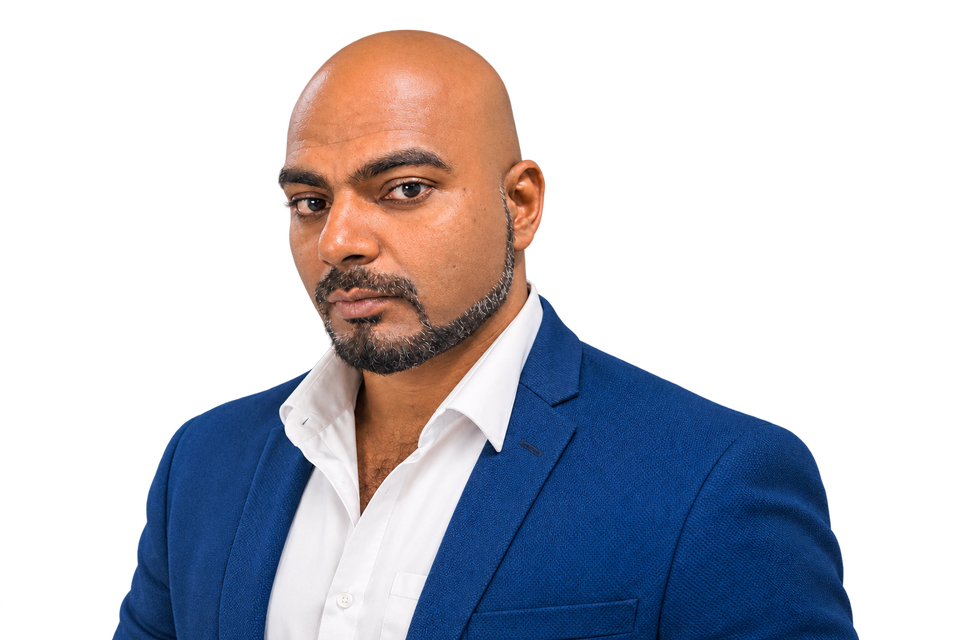
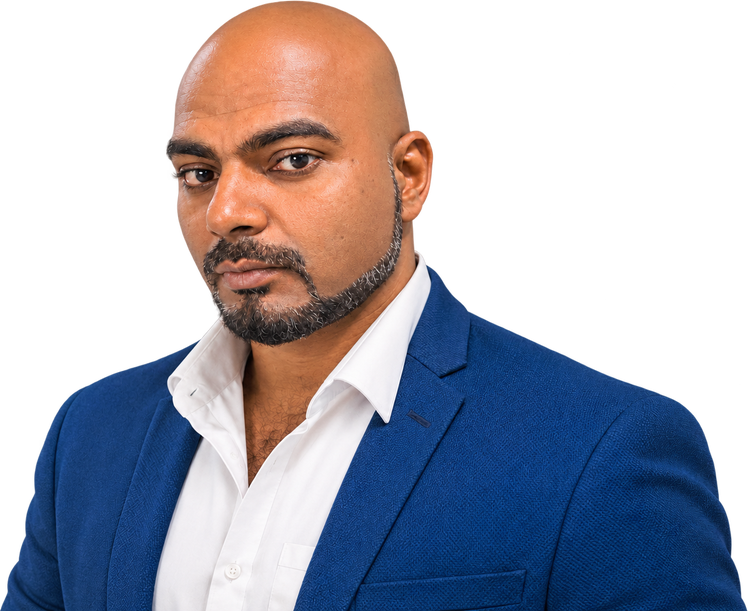
Refine portfolio project motion and timeline

diff --git a/app/globals.css b/app/globals.css
@@ -4967,7 +4967,7 @@ html[data-theme="dark"] .project-row:focus-within { box-shadow: 0 25px 48px rgba
 
 @property --card-glow-hue {
   syntax: "<number>";
-  inherits: false;
+  inherits: true;
   initial-value: 218;
 }
 .hero-role { color: #315b96; }
@@ -5132,13 +5132,203 @@ html[data-theme="dark"] .hero-hairline .hero-portrait-backdrop {
   .project-hanging-rail { width: var(--mobile-rail-width, 400vw); }
 }
 .hero-media .hero-photo {
-  top: 0;
-  right: 0;
-  bottom: 0;
-  left: 0;
-  width: 100%;
-  height: 100%;
-  object-fit: cover;
-  object-position: center top;
+  top: auto !important;
+  right: auto !important;
+  bottom: 15% !important;
+  left: 0 !important;
+  width: 100% !important;
+  height: auto !important;
+  max-height: 96%;
+  object-fit: contain;
+  object-position: center bottom;
+  transform: translateY(-20%) !important;
+}
+
+/* Smoother rope mechanics: a true full-width sag, fixed hangers, compact cards. */
+.hero-media,
+html[data-theme="dark"] .hero-media {
+  overflow: visible;
+  border: 0;
+  border-radius: 0;
+  background: transparent;
+  box-shadow: none;
+}
+.hero-media .hero-photo {
+  z-index: 2;
+  filter: drop-shadow(0 17px 22px rgba(22, 45, 80, .16));
+}
+.hero-media .hero-portrait-backdrop { display: block !important; }
+.hero-hairline::before,
+.hero-hairline::after { display: block !important; }
+html[data-theme="dark"] .hero-media .hero-photo {
+  filter: drop-shadow(0 20px 25px rgba(0, 0, 0, .24));
+}
+
+.project-list {
+  grid-auto-flow: row;
+  grid-auto-columns: auto;
+  grid-template-columns: repeat(4, minmax(0, 1fr));
+  align-items: start;
+  gap: clamp(12px, 1.4vw, 20px);
+  margin-top: 38px;
+  padding: 0 0 16px;
+  overflow: visible;
+  scrollbar-width: none;
+  perspective: 1400px;
+}
+.project-list::-webkit-scrollbar { display: none; }
+.project-hanging-rail {
+  width: 100% !important;
+  height: 96px;
+}
+.project-row,
+.project-row:last-child,
+.project-featured {
+  z-index: 1;
+  display: block;
+  min-width: 0;
+  min-height: 0;
+  margin-top: calc(47px + var(--rope-drop, 0px));
+  padding: 0;
+  overflow: visible;
+  border: 0 !important;
+  border-radius: 22px;
+  background: transparent !important;
+  box-shadow: none !important;
+  transform: none !important;
+  transform-style: flat;
+  transition: none;
+  animation: none !important;
+  perspective: 1100px;
+}
+.project-row:nth-of-type(2),
+.project-row:nth-of-type(3) { margin-top: calc(47px + var(--rope-drop, 0px)); }
+.project-row::before {
+  top: -47px;
+  left: 50%;
+  height: 47px;
+  background: linear-gradient(rgba(54, 87, 137, .24), rgba(54, 87, 137, .72));
+  transform: translateX(-50%);
+}
+.project-row::after {
+  top: -53px;
+  left: 50%;
+  transform: translateX(-50%);
+}
+.project-card-shell {
+  position: relative;
+  display: flex;
+  min-width: 0;
+  min-height: 456px;
+  flex-direction: column;
+  padding: 11px;
+  overflow: hidden;
+  border: 1px solid rgba(255,255,255,.94);
+  border-radius: 20px;
+  background:
+    radial-gradient(ellipse at var(--card-glow-x, 50%) var(--card-glow-y, 45%), hsl(var(--card-glow-hue, 218) 88% 74% / .15), transparent 63%),
+    rgba(255,255,255,.92);
+  box-shadow: 0 14px 32px rgba(33,60,103,.11), inset 0 1px rgba(255,255,255,.98);
+  transform: perspective(1100px) rotateX(var(--card-rotate-x)) rotateY(var(--card-rotate-y));
+  transform-origin: 50% 0;
+  transform-style: preserve-3d;
+  transition: transform 480ms cubic-bezier(.2,.72,.25,1), border-color 700ms ease, box-shadow 700ms ease, background 900ms ease;
+  animation: project-card-sway 6.8s ease-in-out infinite;
+  will-change: transform;
+}
+.project-row:nth-of-type(2) .project-card-shell { animation-delay: -1.7s; }
+.project-row:nth-of-type(3) .project-card-shell { animation-delay: -3.4s; }
+.project-row:nth-of-type(4) .project-card-shell { animation-delay: -5.1s; }
+@keyframes project-card-sway {
+  0%, 100% { rotate: -.35deg; }
+  50% { rotate: .35deg; }
+}
+html[data-theme="dark"] .project-card-shell {
+  border-color: rgba(203,222,251,.22);
+  background:
+    radial-gradient(ellipse at var(--card-glow-x, 50%) var(--card-glow-y, 45%), hsl(var(--card-glow-hue, 218) 82% 66% / .2), transparent 63%),
+    rgba(24,48,81,.96);
+  box-shadow: 0 17px 36px rgba(0,0,0,.25), inset 0 1px rgba(255,255,255,.08);
+}
+.project-row:hover .project-card-shell,
+.project-row:focus-within .project-card-shell {
+  border-color: hsl(var(--card-glow-hue, 218) 68% 68% / .82);
+  box-shadow: 0 20px 40px rgba(33,60,103,.17), 0 0 32px hsl(var(--card-glow-hue, 218) 84% 65% / .15), inset 0 1px rgba(255,255,255,.78);
+}
+html[data-theme="dark"] .project-row:hover .project-card-shell,
+html[data-theme="dark"] .project-row:focus-within .project-card-shell {
+  box-shadow: 0 20px 42px rgba(0,0,0,.36), 0 0 32px hsl(var(--card-glow-hue, 218) 84% 65% / .18), inset 0 1px rgba(255,255,255,.1);
+}
+.project-card-flipper {
+  min-height: 432px;
+  transition: transform 1.15s cubic-bezier(.22,.68,.18,1);
+}
+.project-card-face { min-height: 432px; }
+.project-card-image { aspect-ratio: 1.3; }
+.project-row[data-flipped="true"] .project-card-flipper { transform: rotateY(180deg); }
+.project-row:hover .project-card-flipper,
+.project-row:focus-within .project-card-flipper { transform: rotateY(180deg); }
+.project-row[data-flip-manual="true"][data-flipped="false"]:hover .project-card-flipper { transform: rotateY(0deg); }
+.project-card-sheen { z-index: 0; }
+.project-flip-toggle { top: 17px; right: 17px; min-height: 36px; font-size: 11px; }
+.project-card-back { min-height: 432px; padding: 19px 12px; }
+.project-objective { font-size: 12px; line-height: 1.65; }
+.project-card-back .project-outcome { padding: 10px; }
+.project-card-back .project-outcome p { font-size: 10.5px; }
+.project-row:focus-within { outline: none; }
+.project-row:focus-within .project-card-shell { outline: 3px solid #4778bd; outline-offset: 4px; }
+html[data-theme="dark"] .project-card-back {
+  background:
+    radial-gradient(ellipse at 85% 10%, hsl(var(--card-glow-hue, 218) 82% 65% / .2), transparent 52%),
+    linear-gradient(150deg, rgba(31,57,93,.99), rgba(19,39,68,.99));
+}
+
+.experience-company-line {
+  display: flex;
+  min-height: 38px;
+  align-items: center;
+  justify-content: space-between;
+  gap: 14px;
+  margin-top: 2px;
+}
+.experience-company-line .experience-company { margin: 0; }
+.experience-company-logo {
+  display: block;
+  width: 92px;
+  height: 34px;
+  flex: 0 0 auto;
+  object-fit: contain;
+  object-position: right center;
+  opacity: .84;
+}
+html[data-theme="dark"] .experience-company-logo { filter: brightness(0) invert(1); opacity: .8; }
+
+@media (max-width: 1050px) {
+  .project-list { grid-template-columns: repeat(2, minmax(0, 1fr)); padding-top: 0; }
+  .project-hanging-rail,
+  .project-row::before,
+  .project-row::after { display: none; }
+  .project-row,
+  .project-row:nth-of-type(2),
+  .project-row:nth-of-type(3) { margin-top: 0; }
+  .project-card-shell { min-height: 442px; }
+  .project-card-flipper,
+  .project-card-face,
+  .project-card-back { min-height: 418px; }
+}
+@media (max-width: 700px) {
+  .hero-media { width: min(100%, 440px); height: auto; min-height: 0; aspect-ratio: .94; margin-inline: auto; }
+  .hero-media .hero-photo { width: 100% !important; left: 0 !important; bottom: 11% !important; max-height: 96%; }
+  .project-list { grid-template-columns: minmax(0, 1fr); gap: 24px; margin-top: 30px; overflow: visible; }
+  .project-card-shell { min-height: 0; }
+  .project-card-flipper,
+  .project-card-face,
+  .project-card-back { min-height: 430px; }
+  .experience-company-line { align-items: flex-start; }
+}
+@media (prefers-reduced-motion: reduce) {
+  .project-card-shell { animation: none !important; }
+  .project-card-flipper,
+  .project-card-shell { transition-duration: .01ms !important; }
 }
 

diff --git a/app/page.tsx b/app/page.tsx
@@ -11,6 +11,7 @@ const experienceTimeline = [
   {
     role: "UX Lead Designer",
     company: "Aziro Technologies Pvt. Ltd.",
+    logo: "/images/companies/aziro.png",
     location: "Chennai, India",
     period: "Nov 2023 – Present",
     highlights: [
@@ -22,6 +23,7 @@ const experienceTimeline = [
   {
     role: "Senior Product Designer",
     company: "Swirepay Technologies",
+    logo: "/images/companies/swirepay.png",
     location: "Chennai, India",
     period: "Apr 2023 – Nov 2023",
     highlights: [
@@ -32,6 +34,7 @@ const experienceTimeline = [
   {
     role: "Senior Business Presentation Designer",
     company: "McKinsey & Company",
+    logo: "/images/companies/mckinsey.png",
     location: "Chennai, India",
     period: "Apr 2016 – Mar 2023",
     highlights: [
@@ -42,6 +45,7 @@ const experienceTimeline = [
   {
     role: "Senior Customer Service Agent",
     company: "Jet Airways",
+    logo: "/images/companies/jet-airways.png",
     location: "Chennai, India",
     period: "Nov 2013 – Apr 2016",
     highlights: [
@@ -207,7 +211,7 @@ export default function Home() {
                 <span className="portrait-orbit portrait-orbit-two" />
                 <span className="portrait-grid" />
               </div>
-              <Image
+                  <Image
                 src={theme === "dark" ? "/images/allwin-hero-dark-cutout.png" : "/images/allwin-hero-light-cutout.png"}
                 alt={theme === "dark" ? "Allwin Alex in a black suit, monochrome portrait." : "Allwin Alex in a blue blazer and white shirt."}
                 fill
@@ -351,17 +355,20 @@ export default function Home() {
             </div>
 
             <div className="project-list" aria-live="polite">
-              <svg className="project-hanging-rail" style={{ "--mobile-rail-width": `calc(${visibleProjects.length * 84}vw + ${Math.max(0, visibleProjects.length - 1) * 15}px)` } as CSSProperties} viewBox="0 0 1000 116" preserveAspectRatio="none" aria-hidden="true">
+              <svg className="project-hanging-rail" viewBox="0 0 1000 180" preserveAspectRatio="none" aria-hidden="true">
                 <defs><linearGradient id="hanging-wire-gradient" x1="0" y1="0" x2="1" y2="0"><stop offset="0" stopColor="#7899c8" stopOpacity=".5" /><stop offset=".5" stopColor="#9f91cf" /><stop offset="1" stopColor="#7899c8" stopOpacity=".5" /></linearGradient></defs>
-                <path d="M0 18 Q500 116 1000 18" />
+                <path d="M0 8 Q500 180 1000 8" />
               </svg>
               {visibleProjects.map((project, index) => {
                 const hasFlipOverride = Object.prototype.hasOwnProperty.call(flippedProjectOverrides, project.id);
                 const isProjectFlipped = flippedProjectOverrides[project.id] ?? hoveredProjectId === project.id;
+                const ropePosition = (index + 0.5) / visibleProjects.length;
+                const ropeDrop = 48 * 4 * ropePosition * (1 - ropePosition);
                 return (
                 <article
                   className="project-row"
                   key={project.id}
+                  style={{ "--rope-drop": `${ropeDrop}px` } as CSSProperties}
                   data-reveal
                   data-flipped={isProjectFlipped}
                   data-flip-manual={hasFlipOverride}
@@ -386,12 +393,13 @@ export default function Home() {
                     event.currentTarget.style.setProperty("--card-glow-hue", "218");
                   }}
                 >
-                  <span className="project-card-sheen" aria-hidden="true" />
-                  <button className="project-flip-toggle" type="button" aria-pressed={isProjectFlipped} aria-label={isProjectFlipped ? `Show ${project.title} overview` : `Show ${project.title} objective`} onClick={() => setFlippedProjectOverrides((current) => ({ ...current, [project.id]: !isProjectFlipped }))}>
-                    {isProjectFlipped ? "Overview" : "Objective"}
-                    <svg viewBox="0 0 24 24" aria-hidden="true"><path d="M20 11a8 8 0 0 0-14-5L4 8m0 0V4m0 4h4M4 13a8 8 0 0 0 14 5l2-2m0 0v4m0-4h-4" /></svg>
-                  </button>
-                  <div className="project-card-flipper">
+                  <div className="project-card-shell">
+                    <span className="project-card-sheen" aria-hidden="true" />
+                    <button className="project-flip-toggle" type="button" aria-pressed={isProjectFlipped} aria-label={isProjectFlipped ? `Show ${project.title} overview` : `Show ${project.title} objective`} onClick={() => setFlippedProjectOverrides((current) => ({ ...current, [project.id]: !isProjectFlipped }))}>
+                      {isProjectFlipped ? "Overview" : "Objective"}
+                      <svg viewBox="0 0 24 24" aria-hidden="true"><path d="M20 11a8 8 0 0 0-14-5L4 8m0 0V4m0 4h4M4 13a8 8 0 0 0 14 5l2-2m0 0v4m0-4h-4" /></svg>
+                    </button>
+                    <div className="project-card-flipper">
                     <div className="project-card-face project-card-front" inert={isProjectFlipped} aria-hidden={isProjectFlipped}>
                       <div className="project-card-image" aria-hidden="true">
                         <Image
@@ -420,6 +428,7 @@ export default function Home() {
                       <p className="project-objective">{project.challenge}</p>
                       <div className="project-outcome"><span>Outcome</span><p>{project.results}</p></div>
                     </div>
+                    </div>
                   </div>
                 </article>
                 );
@@ -444,7 +453,10 @@ export default function Home() {
                 </div>
                 <div className="experience-detail">
                   <h3>{job.role}</h3>
-                  <p className="experience-company">{job.company}</p>
+                  <div className="experience-company-line">
+                    <p className="experience-company">{job.company}</p>
+                    <Image src={job.logo} alt="" width={120} height={44} className="experience-company-logo" />
+                  </div>
                   <ul>
                     {job.highlights.map((highlight) => <li key={highlight}>{highlight}</li>)}
                   </ul>

diff --git a/public/images/companies/SOURCES.md b/public/images/companies/SOURCES.md
@@ -1,0 +1,9 @@
+# Timeline logo sources
+
+These transparent raster marks appear beside the matching employer names in the career timeline. They identify past employers and do not imply current affiliation or endorsement.
+
+- Aziro: official [Aziro brand guidelines](https://www.aziro.com/about-us/brand-guidelines), image served from `cdn.aziro.com`.
+- Swirepay: official [Swirepay website](https://www.swirepay.com/), logo served from the site root as `logo.84ed97b1.svg`, then rasterized to PNG.
+- McKinsey & Company: [CompaniesLogo](https://companieslogo.com/mckinsey/logo/), transparent PNG.
+- Jet Airways: [Logo.wine](https://www.logo.wine/logo/Jet_Airways), transparent PNG.
+
